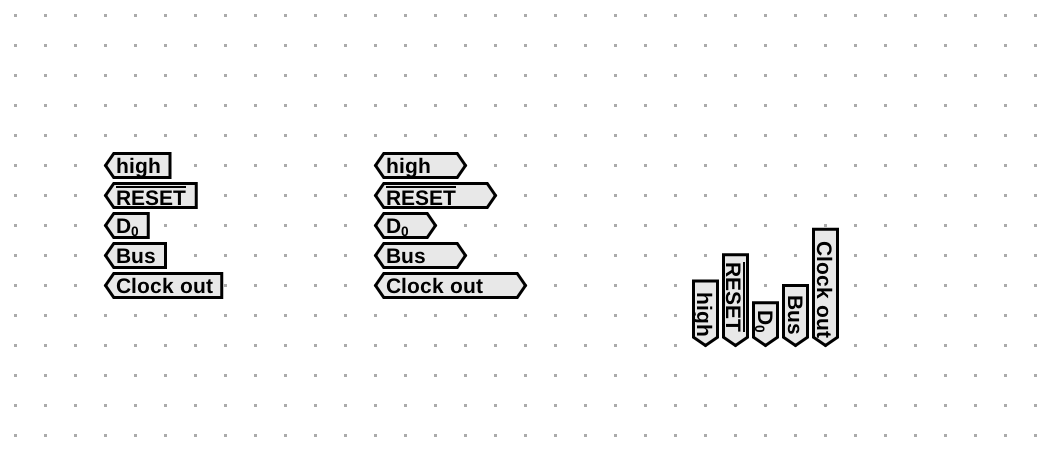
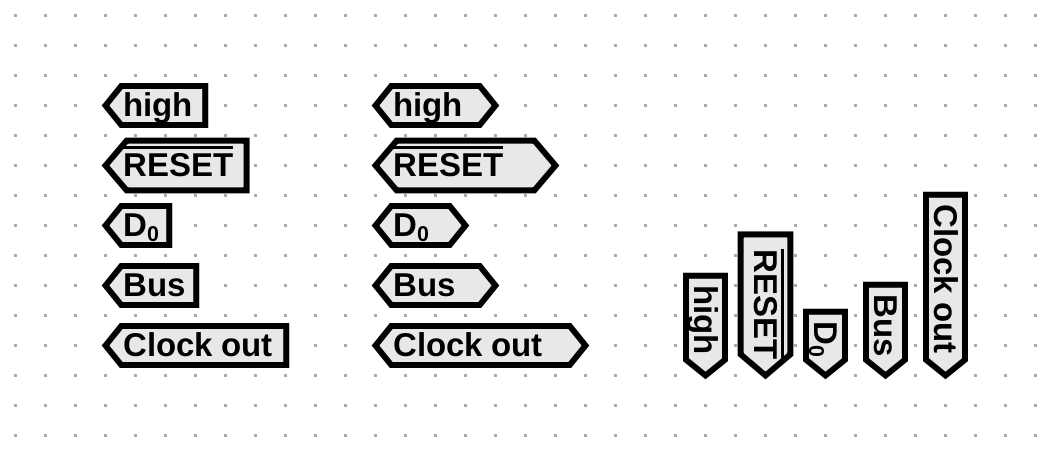
Doubled the size of some of the basic components.

diff --git a/TestKicadImporterLib/TestKicadImporterLib/TestKicadSchemLogicim.cpp b/TestKicadImporterLib/TestKicadImporterLib/TestKicadSchemLogicim.cpp
@@ -513,6 +513,34 @@ void AssertKicadSchemLogicimConverts(char* szName, size uiMinimumGates, size uiM
 
 //////////////////////////////////////////////////////////////////////////
 //
+// How many times szText is in the saved circuit.
+//
+//////////////////////////////////////////////////////////////////////////
+void AssertKicadSchemLogicimAttributes(char* szName, char* szText, int iExpected)
+{
+	CTextFile	cFile;
+	CChars		szPath;
+	int			iCount;
+	char*		sz;
+
+	szPath.Init("Output" _FS_);
+	szPath.Append(szName);
+	szPath.Append(".xml");
+	cFile.Init();
+	AssertTrue(cFile.Read(szPath.Text()));
+	iCount = 0;
+	for (sz = strstr(cFile.Text(), szText); sz != NULL; sz = strstr(sz + 1, szText))
+	{
+		iCount++;
+	}
+	AssertInt(iExpected, iCount);
+	cFile.Kill();
+	szPath.Kill();
+}
+
+
+//////////////////////////////////////////////////////////////////////////
+//
 // How many of the element the converted Output/name.xml has.
 //
 //////////////////////////////////////////////////////////////////////////
@@ -544,25 +572,59 @@ void AssertKicadSchemLogicimElements(char* szName, char* szElement, int iExpecte
 }
 
 
+//A 5V regulator whose output is labelled VCC, so it reaches the hidden VCC pin of a 74LVC1G04, with a ground on only the
+//regulator's ground pin.
+char gszKicadSchemRegulatorTestFile[] =
+	"(kicad_sch (version 20250114) (generator \"eeschema\") (uuid \"root\") (paper \"A4\")\n"
+	"	(lib_symbols\n"
+	"		(symbol \"Regulator_Linear:Test5V\" (property \"Reference\" \"U\") (property \"Value\" \"Test5V\")\n"
+	"			(symbol \"Test5V_1_1\"\n"
+	"				(pin power_in line (at -7.62 0 0) (length 2.54) (name \"VIn\") (number \"1\"))\n"
+	"				(pin power_out line (at 7.62 0 180) (length 2.54) (name \"5VOut\") (number \"3\"))\n"
+	"				(pin power_in line (at 0 -7.62 90) (length 2.54) (name \"GND\") (number \"2\"))))\n"
+	"		(symbol \"Nexperia:74LVC1G04\" (property \"Reference\" \"U\") (property \"Value\" \"74LVC1G04\")\n"
+	"			(symbol \"74LVC1G04_1_1\"\n"
+	"				(pin input line (at -5.08 0 0) (length 2.54) (name \"A\") (number \"2\"))\n"
+	"				(pin output line (at 5.08 0 180) (length 2.54) (name \"Y\") (number \"4\"))\n"
+	"				(pin power_in line (at 0 5.08 270) (length 2.54) (hide yes) (name \"VCC\") (number \"5\"))\n"
+	"				(pin power_in line (at 0 -5.08 90) (length 2.54) (hide yes) (name \"GND\") (number \"3\"))))\n"
+	"		(symbol \"power:GND\" (power) (property \"Reference\" \"#PWR\") (property \"Value\" \"GND\")\n"
+	"			(symbol \"GND_1_1\" (pin power_in line (at 0 0 270) (length 0) (hide yes) (name \"GND\") (number \"1\")))))\n"
+	"	(symbol (lib_id \"Regulator_Linear:Test5V\") (at 50.8 50.8 0) (unit 1) (uuid \"u1\") (property \"Reference\" \"U1\") (property \"Value\" \"Test5V\"))\n"
+	"	(symbol (lib_id \"Nexperia:74LVC1G04\") (at 101.6 50.8 0) (unit 1) (uuid \"u2\") (property \"Reference\" \"U2\") (property \"Value\" \"74LVC1G04\"))\n"
+	"	(symbol (lib_id \"power:GND\") (at 50.8 58.42 0) (unit 1) (uuid \"p1\") (property \"Reference\" \"#PWR01\") (property \"Value\" \"GND\"))\n"
+	"	(wire (pts (xy 58.42 50.8) (xy 66.04 50.8)) (uuid \"w1\"))\n"
+	"	(label \"VCC\" (at 66.04 50.8 0) (uuid \"l1\"))\n"
+	")\n";
+
+
 //////////////////////////////////////////////////////////////////////////
 //
 //
 //////////////////////////////////////////////////////////////////////////
 void TestKicadSchemLogicimConvert(void)
 {
-	AssertKicadSchemLogicimConverts("Importer Test", 2, 0, "U1", gszKicadSchemTestFile, 1);
-	AssertKicadSchemLogicimConverts("Netlist Test", 0, 1, NULL, gszKicadSchemNetlistTestFile, 1);
+	//Its ground is on no wire, only the hidden power pins of the 74HC00 (which has implied power), so it isn't made.
+	AssertKicadSchemLogicimConverts("Importer Test", 2, 0, "U1", gszKicadSchemTestFile, 0);
+	//Its VCC symbol is on no wire, only U1's hidden VCC pin, so it isn't made.
+	AssertKicadSchemLogicimConverts("Netlist Test", 0, 1, NULL, gszKicadSchemNetlistTestFile, 0);
 	AssertKicadSchemLogicimConverts("Bus Test", 0, 2, NULL, gszKicadSchemBusTestFile, 0, 3);
 	AssertKicadSchemLogicimConverts("Clock Oscillator", 0, 1, NULL, NULL, 0, 0, 4);
 	AssertKicadSchemLogicimConverts("Clock Hold V1 to V2", 0, 2, NULL, NULL, 0, 1, 25);
 	AssertKicadSchemLogicimConverts("LSF0204", 0, 1, NULL);
 	AssertKicadSchemLogicimConverts("LED Display", 0, 2, NULL);
-	AssertKicadSchemLogicimConverts("LCD Dual 7 Segment Tester", 0, 1, NULL, NULL, 1, 0, 9);
-	AssertKicadSchemLogicimConverts("Power and Reset", 0, 1, NULL, NULL, 3, 0, 32);
-	AssertKicadSchemLogicimConverts("HCP65 MPU NMI", 10, 0, "IC8", NULL, 1, 0, 25);
-	AssertKicadSchemLogicimConverts("Triple MPU Clock Generator", 8, 1, NULL, NULL, 1, 0, 53);
-	AssertKicadSchemLogicimConverts("Flags Enable Interrupt", 0, 0, NULL, NULL, 1, 4, 26);
-	AssertKicadSchemLogicimConverts("UART Board", 0, 1, NULL, NULL, 1, 10, 90);
+	//Its L7805 isn't drawn (a regulator gives its voltage to the ICs it powers).
+	AssertKicadSchemLogicimConverts("LCD Dual 7 Segment Tester", 0, 1, NULL, NULL, 0, 0, 9);
+	//Its three regulators aren't drawn.
+	AssertKicadSchemLogicimConverts("Power and Reset", 0, 1, NULL, NULL, 0, 0, 32);
+	//Its AP7365 isn't drawn.
+	AssertKicadSchemLogicimConverts("HCP65 MPU NMI", 10, 0, "IC8", NULL, 0, 0, 25);
+	//Its AP7365 isn't drawn.
+	AssertKicadSchemLogicimConverts("Triple MPU Clock Generator", 8, 1, NULL, NULL, 0, 0, 53);
+	//Its AP7365 isn't drawn.
+	AssertKicadSchemLogicimConverts("Flags Enable Interrupt", 0, 0, NULL, NULL, 0, 4, 26);
+	//Its LD1117S50C isn't drawn.
+	AssertKicadSchemLogicimConverts("UART Board", 0, 1, NULL, NULL, 0, 10, 90);
 
 	//A 74 series part drawn as units is units, and drawn whole is a package.
 	AssertKicadSchemLogicimElements("HCP65 MPU NMI", "Logic74Unit", 15);
@@ -572,8 +634,17 @@ void TestKicadSchemLogicimConvert(void)
 	AssertKicadSchemLogicimElements("Triple MPU Clock Generator", "Logic74Package", 3);
 	AssertKicadSchemLogicimElements("Triple MPU Clock Generator", "Logic74Unit", 14);
 
-	//A voltage regulator is the supply its output is: an LD1117S33C, an LD1117S50C and an L7812.
-	AssertKicadSchemLogicimElements("Power and Reset", "PositivePower", 3);
+	//Voltage regulators (an LD1117S33C, an LD1117S50C and an L7812) aren't drawn.
+	AssertKicadSchemLogicimElements("Power and Reset", "PositivePower", 0);
+
+	//A regulator isn't drawn: the IC its output powers gets its voltage as its implied Vcc.  The ground on only the
+	//regulator's pin, and the VCC label's tunnel on a wire to nothing drawn, aren't made, so neither is the wire.
+	AssertKicadSchemLogicimConverts("Regulator Test", 1, 0, NULL, gszKicadSchemRegulatorTestFile, 0);
+	AssertKicadSchemLogicimElements("Regulator Test", "PositivePower", 0);
+	AssertKicadSchemLogicimElements("Regulator Test", "Ground", 0);
+	AssertKicadSchemLogicimElements("Regulator Test", "Tunnel", 0);
+	AssertKicadSchemLogicimElements("Regulator Test", "Trace", 0);
+	AssertKicadSchemLogicimAttributes("Regulator Test", "impliedVcc=\"5", 1);
 }
 
 

diff --git a/TestLogicimLib/TestLogicimLib/TestTextViews.cpp b/TestLogicimLib/TestLogicimLib/TestTextViews.cpp
@@ -590,9 +590,8 @@ void TestMarkupLabelsRender(void)
 
 //////////////////////////////////////////////////////////////////////////
 //
-// Tunnels measured to their names on neighbouring grid lines, across and
-// turned, single and double sided: their bodies don't touch and their
-// names (in markup too) fit inside them.
+// Tunnels measured to their names, across and turned, single and double
+// sided: their names (in markup too) fit inside them.
 //
 //////////////////////////////////////////////////////////////////////////
 void TestTunnelsRender(void)
@@ -601,8 +600,6 @@ void TestTunnelsRender(void)
 	CCircuitColours	cColours;
 	CCircuitFonts	cFonts;
 	CTunnelView*	pcTunnel;
-	SFloat64Vec2	sMinimum;
-	SFloat64Vec2	sMaximum;
 	const char*		aszNames[] = { "high", "~{RESET}", "D_{0}", "Bus", "Clock out" };
 	size			i;
 
@@ -611,20 +608,16 @@ void TestTunnelsRender(void)
 	cCircuit.Init();
 	cColours.InitLogicim();
 
-	CTunnelView::MeasureBox(&cFonts, "high", false, &sMinimum, &sMaximum);
-	AssertDouble(-0.4, sMinimum.y, 9);
-	AssertDouble(0.4, sMaximum.y, 9);
-
 	for (i = 0; i < 5; i++)
 	{
 		pcTunnel = NewMalloc<CTunnelView>();
-		pcTunnel->Init(-14, -2 + (int32)i, ROT_East, aszNames[i], false, &cFonts);
+		pcTunnel->Init(-14, -4 + 2 * (int32)i, ROT_East, aszNames[i], false, &cFonts);
 		cCircuit.Add(pcTunnel);
 		pcTunnel = NewMalloc<CTunnelView>();
-		pcTunnel->Init(-5, -2 + (int32)i, ROT_East, aszNames[i], true, &cFonts);
+		pcTunnel->Init(-5, -4 + 2 * (int32)i, ROT_East, aszNames[i], true, &cFonts);
 		cCircuit.Add(pcTunnel);
 		pcTunnel = NewMalloc<CTunnelView>();
-		pcTunnel->Init(6 + (int32)i, 4, ROT_North, aszNames[i], false, &cFonts);
+		pcTunnel->Init(6 + 2 * (int32)i, 5, ROT_North, aszNames[i], false, &cFonts);
 		cCircuit.Add(pcTunnel);
 	}
 
